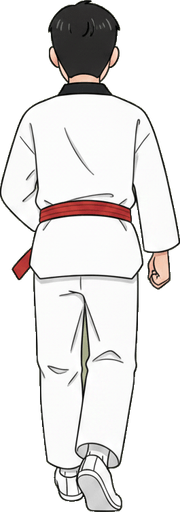
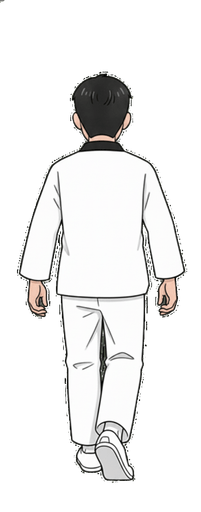
걷기/뛰기 구분 명확화·전자레인지 추격자를 당직훈육관으로·발소리 추가
Q4 걷기 vs 뛰기
- 걷기 컷 재생성: 지금까지 **팔을 달리기처럼 굽히고 주먹을 쥐고** 있어 조깅으로 보였다.
  이제 양팔을 몸 옆으로 늘어뜨려 살짝만 흔들고, 상체를 꼿꼿이 세우며,
  두 발 모두 바닥을 딛는다(밑창이 보이지 않는다). 짝 프레임은 좌우 반전.
- 프레임 간격도 벌렸다: 걷기 200→300ms, 구보 130→110ms.
  '조금 빠른 달리기'가 아니라 걷기와 뛰기로 확실히 갈린다.

전자레인지 추격자 = 당직훈육관 (신규 에셋 6종)
- 디지털 카모 전투복 + 전투모 + 왼팔 빨강 훈육 완장의 장교.
  심야 취사장을 도는 건 3학년 선배가 아니라 당직훈육관이 맞다.
- duty_walk_a/b(걷기 2프레임), duty_idle, duty_charge/_b(정면 돌진 2프레임),
  duty_closeup(전투모 챙 그림자에 눈이 잠긴 클로즈업)
- 잡혔을 때 뜨는 클로즈업을 씬별로 교체할 수 있게 closeupKey() 훅 추가

발소리
- audio.footstep(nearness) 추가 — 저역 '툭' + 짧은 노이즈. 가까워질수록 커지고 밝아진다.
- 훈육관이 복도 끝에서 걸어오는 동안 300ms 간격으로 8번 울린다.
  화면을 안 보고 있어도 '오고 있다'가 귀로 먼저 들어온다.

에셋 파이프라인
- 전투복 카모에 초록이 섞여 있어 기존 초록 크로마키가 옷을 뚫었다 →
  마젠타 배경 + 전용 키어(magentakey)를 새로 만들어 사용.
  팔·몸통 사이처럼 외곽선에 갇혀 플러드필이 못 닿는 배경까지 전역 제거.

Changed region(s): [[0.0, 0.0, 1.0, 1.0]]

diff --git a/src/scenes/main/MicrowaveScene.ts b/src/scenes/main/MicrowaveScene.ts
@@ -39,6 +39,8 @@ const HIDE = { x: DOOR_X, y: DOOR_FLOOR_Y - 120 * HIDE_SCALE, scale: HIDE_SCALE 
  */
 export class MicrowaveScene extends BaseMainScene {
   private zone: Zone = 'micro';
+  /** 다가오는 발소리 타이머 */
+  private stepTimer: Phaser.Time.TimerEvent | null = null;
   private seniorState: 'away' | 'in' = 'away';
   private reacted = false;
   private cookProgressMs = 0;
@@ -60,11 +62,17 @@ export class MicrowaveScene extends BaseMainScene {
     super({ key: 'microwave' });
   }
 
+  /** 심야 취사장을 도는 건 선배가 아니라 당직훈육관이다 */
+  protected override closeupKey(): string {
+    return 'duty_closeup';
+  }
+
   create(): void {
     this.zone = 'micro';
     this.seniorState = 'away';
     this.cookProgressMs = 0;
     this.lightsLastSec = -1;
+    this.stepTimer = null;
 
     // 심야 복도 배경 (실제 사진 기반) — 전자레인지는 복도, 세탁실은 왼쪽 문 안.
     // 세로 화면에 맞추며 좌우가 잘리므로 살짝 우측으로 밀어 '세탁실' 문과 복도 끝을 함께 담는다.
@@ -117,7 +125,8 @@ export class MicrowaveScene extends BaseMainScene {
       .setDepth(30)
       .setVisible(false);
 
-    this.senior = new Cadet(this, 690, 700, 'senior');
+    // 전투복+전투모+훈육 완장의 당직훈육관
+    this.senior = new Cadet(this, 690, 700, 'duty');
     this.senior.setScale(0.3).setVisible(false).setDepth(6);
 
     // 나는 전자레인지를 마주 보고 서 있다 — 카메라 코앞이라 뒷모습 상반신만 보인다
@@ -168,6 +177,20 @@ export class MicrowaveScene extends BaseMainScene {
           duration: Q3_MICROWAVE.reactMs(this.day) * 1.6,
           ease: 'Sine.easeIn',
         });
+        // 다가오는 전투화 발소리 — 가까워질수록 커진다.
+        // 화면을 안 보고 있어도 '오고 있다'가 귀로 먼저 들어온다.
+        this.stepTimer?.remove();
+        let step = 0;
+        this.stepTimer = this.time.addEvent({
+          delay: 300,
+          repeat: 7,
+          callback: () => {
+            if (this.finished || this.seniorState !== 'in') return;
+            step += 1;
+            audio.footstep(Math.min(1, 0.25 + step * 0.12));
+          },
+        });
+
         const reactMs = Q3_MICROWAVE.reactMs(this.day);
         this.time.delayedCall(reactMs, () => {
           if (this.finished || this.seniorState !== 'in') return;
@@ -180,6 +203,8 @@ export class MicrowaveScene extends BaseMainScene {
       },
       onLeave: () => {
         this.seniorState = 'away';
+        this.stepTimer?.remove();
+        this.stepTimer = null;
         this.tweens.killTweensOf(this.senior);
         this.senior.setVisible(false);
       },

diff --git a/src/ui/Characters.ts b/src/ui/Characters.ts
@@ -1,7 +1,7 @@
 import Phaser from 'phaser';
 import { COLORS, FONT, UI } from '../config';
 
-export type CadetKind = 'player' | 'junior' | 'peer' | 'senior';
+export type CadetKind = 'player' | 'junior' | 'peer' | 'senior' | 'duty';
 export type CadetMotion =
   | 'idle' | 'walk' | 'run' | 'dance' | 'salute'
   | 'cheer' | 'exhausted' | 'sneak' | 'lying' | 'lying_punch' | 'point' | 'hide'
@@ -41,6 +41,7 @@ const LABELS: Record<CadetKind, string> = {
   junior: '후배 (1학년)',
   peer: '동기 (2학년)',
   senior: '선배 (3학년)',
+  duty: '당직훈육관',
 };
 
 /** kind+motion → 텍스처 키. 없는 모션은 idle로 폴백. */
@@ -56,6 +57,11 @@ const POSE: Record<CadetKind, Partial<Record<CadetMotion, string>>> = {
   senior: {
     idle: 'senior_idle', walk: 'senior_walk', run: 'senior_run', salute: 'senior_idle',
     point: 'senior_point', charge: 'senior_charge',
+  },
+  // 당직훈육관 — 전투복+전투모+훈육 완장. 심야 취사장을 도는 건 선배가 아니라 이 사람이다.
+  duty: {
+    idle: 'duty_idle', walk: 'duty_walk_a', run: 'duty_charge', salute: 'duty_idle',
+    point: 'duty_idle', charge: 'duty_charge',
   },
 };
 const DOBOK: Partial<Record<CadetMotion, string>> = {
@@ -76,6 +82,9 @@ const CYCLE: Record<string, [string, string]> = {
   'senior.run': ['senior_run', 'senior_run_b'],
   'senior.walk': ['senior_walk', 'senior_walk_b'],
   'senior.charge': ['senior_charge', 'senior_charge_b'],
+  'duty.walk': ['duty_walk_a', 'duty_walk_b'],
+  'duty.run': ['duty_charge', 'duty_charge_b'],
+  'duty.charge': ['duty_charge', 'duty_charge_b'],
   // 복도 방문자 — 걸어오는 2프레임 (한 장짜리면 한 발 든 채 미끄러진다)
   'visitor.walk': ['visitor_walk_a', 'visitor_walk_b'],
   'dobok.walk': ['player_dobok_walk', 'player_dobok_walk_b'],
@@ -280,7 +289,7 @@ export class Cadet extends Phaser.GameObjects.Container {
       let i = 0;
       this.applyTexture(cycle[0], uprightH);
       this.cycleTimer = this.scene.time.addEvent({
-        delay: motion === 'run' ? 130 : 200,
+        delay: motion === 'run' ? 110 : 300,
         loop: true,
         callback: () => {
           if (!this.active) return;

diff --git a/src/scenes/main/BaseMainScene.ts b/src/scenes/main/BaseMainScene.ts
@@ -133,6 +133,11 @@ export abstract class BaseMainScene extends Phaser.Scene {
     });
   }
 
+  /** 잡혔을 때 화면을 덮는 클로즈업 텍스처 — 추격자가 다른 씬은 오버라이드한다 */
+  protected closeupKey(): string {
+    return 'senior_closeup';
+  }
+
   /** 이 퀘스트가 HP를 쓰는가 — false면 HP 바를 감추고 갱신도 하지 않는다 */
   protected usesHp(): boolean {
     return true;
@@ -494,7 +499,7 @@ export abstract class BaseMainScene extends Phaser.Scene {
     audio.gameover();
 
     const face = this.add
-      .image(GAME_WIDTH / 2, GAME_HEIGHT / 2 + 40, 'senior_closeup')
+      .image(GAME_WIDTH / 2, GAME_HEIGHT / 2 + 40, this.closeupKey())
       .setDepth(3550)
       .setAlpha(0);
     // 화면 가로를 넘치도록 — 얼굴이 코앞까지 들이닥친 느낌

diff --git a/src/core/AudioManager.ts b/src/core/AudioManager.ts
@@ -396,6 +396,18 @@ class AudioManagerImpl {
     this.noiseBurst(this.now, 0.15, 0.4, 500);
   }
 
+  /**
+   * 복도를 울리는 전투화 발소리 — 저역 '툭' + 짧은 노이즈.
+   * 다가오는 정도(0=멀리, 1=코앞)에 따라 커지고 밝아져 거리감을 준다.
+   */
+  footstep(nearness = 0.5): void {
+    if (!this.ready) return;
+    const n = Math.max(0, Math.min(1, nearness));
+    const gain = 0.12 + 0.5 * n;
+    this.tone('sine', 70 + 22 * n, this.now, 0.11, gain, 40);
+    this.noiseBurst(this.now, 0.05, gain * 0.5, 700 + 900 * n);
+  }
+
   /** 전자레인지 "삐-" — 실제처럼 1초간 이어지는 고음 비프 (피에조 부저 느낌) */
   microwaveBeep(): void {
     if (!this.ready || !this.ctx || !this.master) return;

diff --git a/src/assets/manifest.ts b/src/assets/manifest.ts
@@ -24,6 +24,12 @@ export const IMAGE_KEYS = [
   "dojang",
   "door_nameplate",
   "drain",
+  "duty_charge",
+  "duty_charge_b",
+  "duty_closeup",
+  "duty_idle",
+  "duty_walk_a",
+  "duty_walk_b",
   "exit_sign",
   "expr_blank",
   "expr_dizzy",
